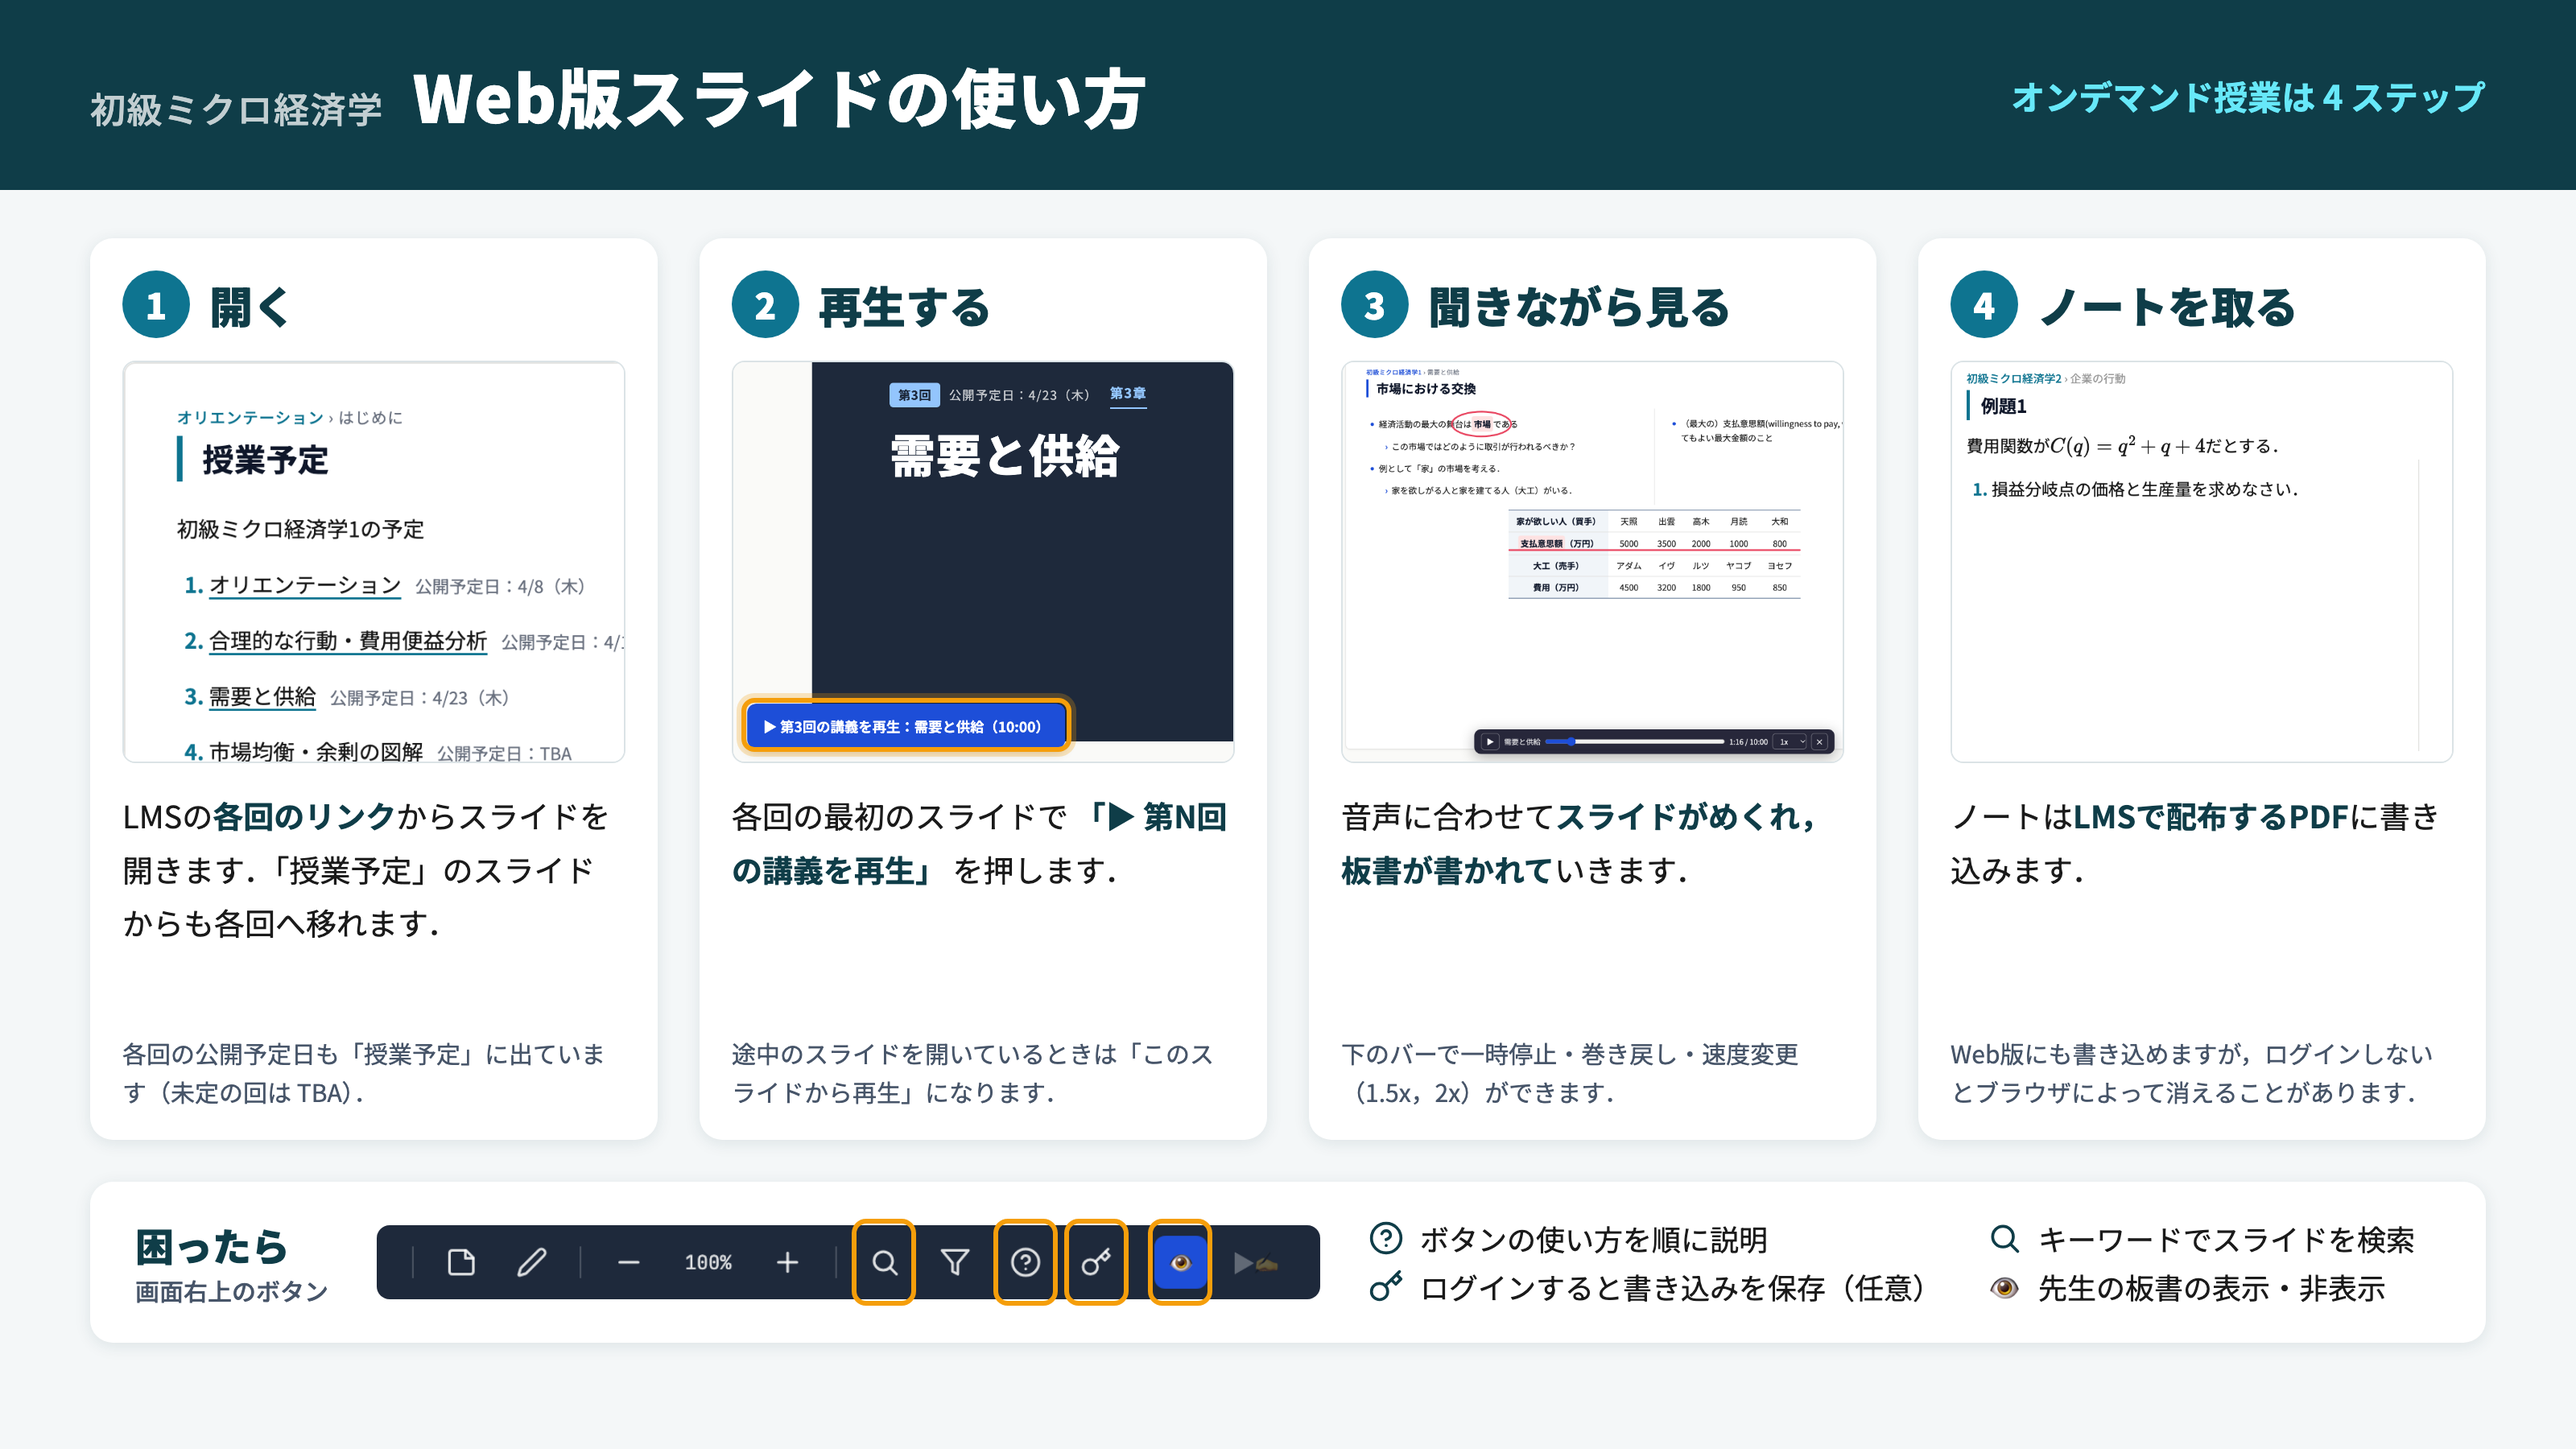
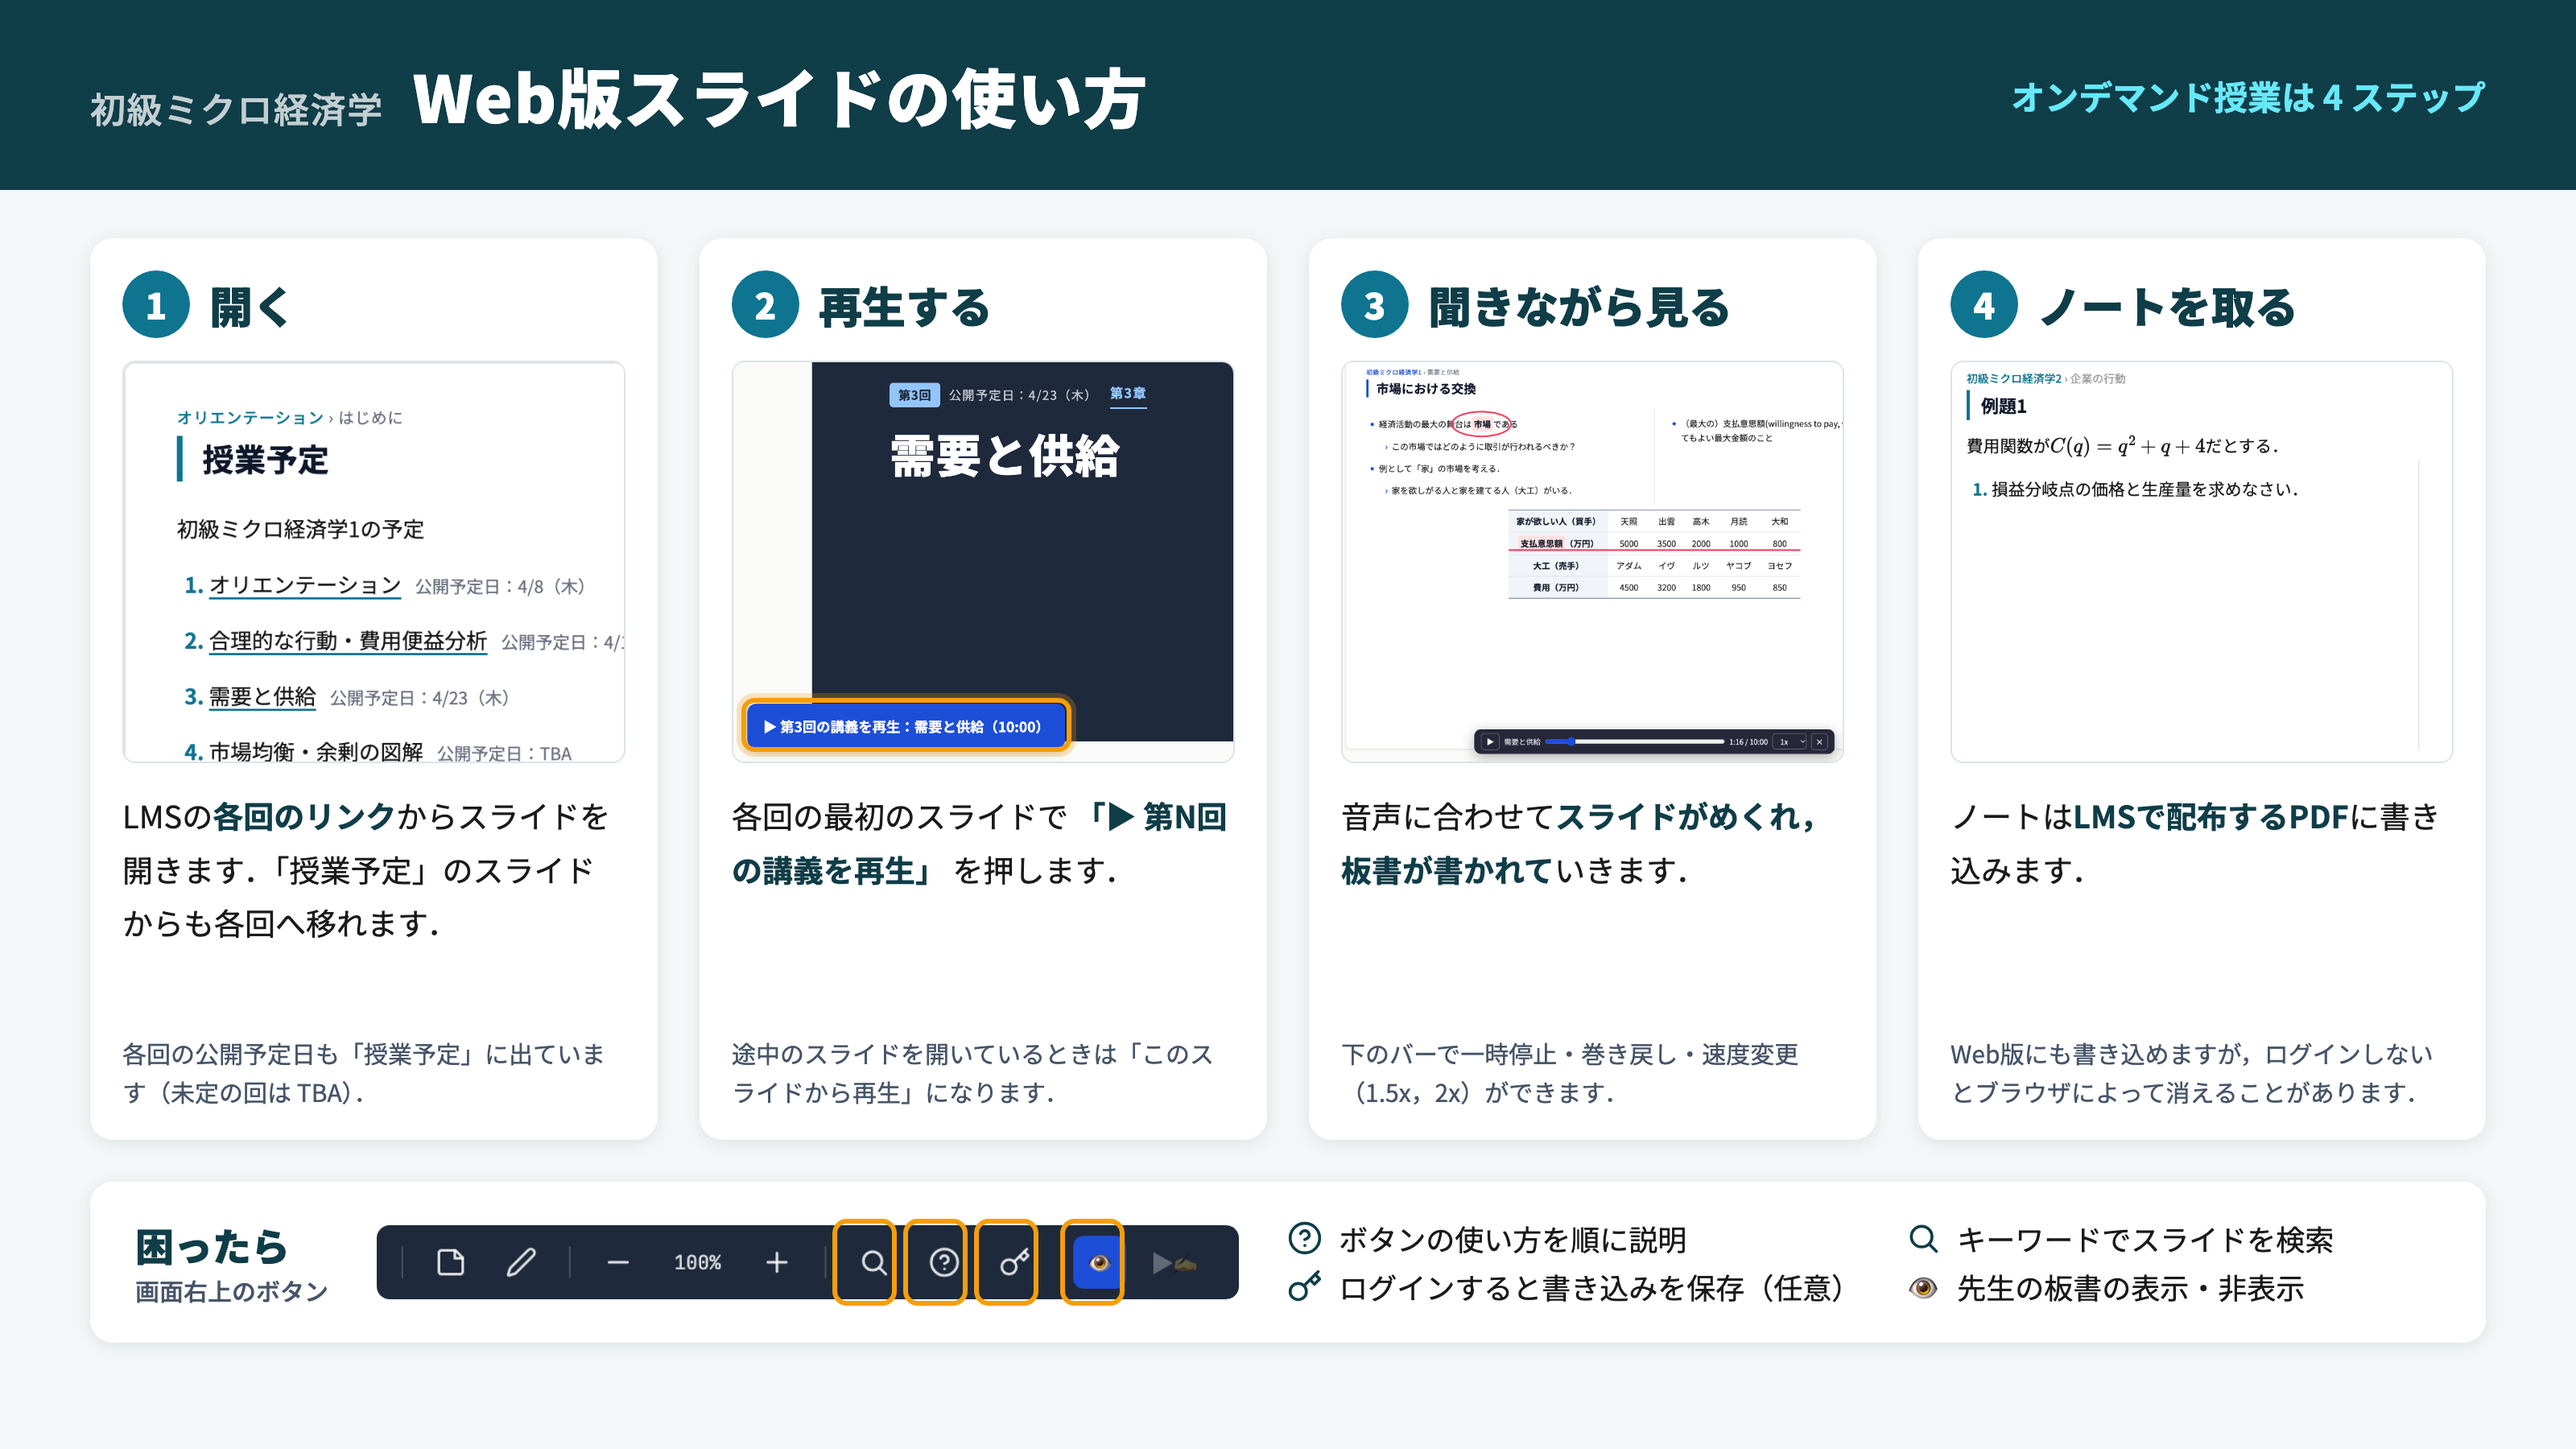
フィルタボタンを廃止し、ブックマーク一覧を検索欄に移す
- ツールバーのフィルタボタン・フィルタの帯・ツアーの「絞り込み」を削除
- 検索欄を空のまま開くと★ブックマークしたスライドの一覧を表示
- LMS 用画像のツールバーを撮り直し

Changed region(s): [[0.3125, 0.84, 0.9375, 0.9022]]

diff --git a/micro_MG.html b/micro_MG.html
@@ -848,7 +848,6 @@ body.print-mode .fab-pen { display: none !important; }
     <button class="nav-btn sp-hide" onclick="zoomStep(1)" title="スライドを拡大 (+)"><svg class="ic"><use href="#i-plus"/></svg></button>
     <span class="nav-sep sp-hide"></span>
     <button class="nav-btn" onclick="toggleSearch()" title="キーワード検索 (/)"><svg class="ic"><use href="#i-search"/></svg></button>
-    <button class="nav-btn" onclick="toggleFilter()" title="フィルタ表示"><svg class="ic"><use href="#i-filter"/></svg></button>
     <button class="nav-btn" onclick="toggleHints()" title="使い方"><svg class="ic"><use href="#i-help"/></svg></button>
   </div>
 </div>
@@ -860,13 +859,7 @@ body.print-mode .fab-pen { display: none !important; }
   <div class="search-results" id="searchResults"></div>
 </div>
 
-<!-- Filter bar -->
-<div class="filter-bar" id="filterBar">
-  <span style="font-weight:500;color:var(--text-dim);">フィルタ:</span>
-  <button class="filter-chip" onclick="setFilter('all',this)">すべて</button>
-  <button class="filter-chip" onclick="setFilter('bookmark',this)"><svg class="ic"><use href="#i-star"/></svg> ブックマーク</button>
-  <span class="filter-count" id="filterCount"></span>
-</div>
+<!-- フィルタの帯（すべて／ブックマーク）は廃止。絞り込みは検索だけが使う（filteredIndices） -->
 
 <!-- Draw toolbar — below topbar/filter, above main -->
 <div class="draw-toolbar" id="drawToolbar">
@@ -2131,9 +2124,6 @@ function toggleBookmark(idx) {
 }
 
 // ═══ FILTER ═══
-function toggleFilter() {
-  document.getElementById('filterBar').classList.toggle('show');
-}
 
 function setFilter(type, el) {
   activeFilter = type;
@@ -2188,8 +2178,7 @@ const TOUR_STEPS = [
   { sel: '#sbTopics button', title: '講義を再生', body: '各回の最初のスライドに「▶ 第N回の講義を再生」が出ます．音声に合わせてスライドがめくれ，板書が書かれていきます．途中のスライドでは「このスライドから再生」になります．' },
   { sel: '#sbShowBtn', title: '先生の板書', body: '👁 で先生の板書の表示・非表示を切り替えます．▶✍ はこのスライドの板書を書き順どおりに再生します（板書のあるスライドだけ）．' },
   { sel: '[onclick="toggleSearch()"]', title: 'キーワード検索', body: 'スライドの本文を検索します（<kbd>/</kbd> キーでも開きます）．検索中は <kbd>←</kbd><kbd>→</kbd> で該当スライドだけを順に見られます．' },
-  { sel: '.slide-content .bookmark-btn', title: 'ブックマーク', body: '★ で大事なスライドに印をつけます．' },
-  { sel: '[onclick="toggleFilter()"]', title: '絞り込み', body: 'ブックマークしたスライドだけを表示します．' },
+  { sel: '.slide-content .bookmark-btn', title: 'ブックマーク', body: '★ で大事なスライドに印をつけます．印をつけたスライドは，検索欄を空のまま開くと一覧で出ます．' },
   { sel: '#drawToggleBtn', title: '書き込み', body: 'スライドに直接書き込めます（iPad では Apple Pencil を使うと自動でオンになります）．ただし<b>ノートは配布PDFに取ってください</b>．Web版の書き込みは補助用です．' },
   { sel: '[onclick="toggleNotes()"]', title: 'メモ欄', body: 'スライドごとにメモを書けます．' },
   { sel: '#ssAuthBtn', title: 'ログイン（任意）', body: '書き込みやメモはこのブラウザに保存されます．ブラウザによっては消えることがあるので，残したい人や端末を替える人はログインしてください．' },
@@ -2282,7 +2271,7 @@ function openSearch() {
   document.getElementById('searchBar').classList.add('show');
   const inp = document.getElementById('searchInput');
   inp.focus(); inp.select();
-  if (inp.value) runSearch();
+  runSearch();   // 空欄ならブックマーク一覧
 }
 function closeSearch() {
   document.getElementById('searchBar').classList.remove('show');
@@ -2298,8 +2287,15 @@ function runSearch() {
   const box = document.getElementById('searchResults');
   const cnt = document.getElementById('searchCount');
   if (!q) {
-    searchHits = []; box.classList.remove('show'); cnt.textContent = '';
+    searchHits = []; cnt.textContent = '';
     if (activeFilter === 'search') { activeFilter = 'all'; filteredIndices = null; updateFilterCount(); showSlide(current); }
+    // 空欄のときはブックマーク（★）したスライドの一覧を出す
+    const bm = SLIDES.map((_, i) => i).filter(i => bookmarks[i]);
+    if (!bm.length) { box.classList.remove('show'); return; }
+    searchSel = 0;
+    box.innerHTML = '<div class="search-empty">★ ブックマークしたスライド</div>' + bm.map((i, k) =>
+      `<div class="search-item${k === 0 ? ' sel' : ''}" data-idx="${i}"><div class="si-head"><span class="si-num">${i + 1}</span>${escSearch(SLIDES[i].title || SLIDES[i].section || '（無題）')}<span class="si-sec">${escSearch(SLIDES[i].section)}</span></div></div>`).join('');
+    box.classList.add('show');
     return;
   }
   if (!SLIDES[0].searchText) SLIDES.forEach(s => {
@@ -2351,7 +2347,7 @@ document.addEventListener('DOMContentLoaded', () => {
   const inp = document.getElementById('searchInput');
   const box = document.getElementById('searchResults');
   inp.addEventListener('input', runSearch);
-  inp.addEventListener('focus', () => { if (inp.value) box.classList.add('show'); });
+  inp.addEventListener('focus', () => { if (inp.value) box.classList.add('show'); else runSearch(); });
   inp.addEventListener('keydown', e => {
     const items = box.querySelectorAll('.search-item');
     if (e.key === 'ArrowDown' || e.key === 'ArrowUp') {

diff --git a/lms/micro_guide_src/micro_guide.html b/lms/micro_guide_src/micro_guide.html
@@ -116,11 +116,11 @@
   <div class="label">困ったら<span>画面右上のボタン</span></div>
   <div class="bar">
     <img src="toolbar.png" alt="ツールバー">
-    <!-- toolbar.png 内の位置（%）：検索 53.8，? 68.8，ログイン 76.3，板書 85.2 -->
-    <div class="pin" style="left:53.8%"></div>
-    <div class="pin" style="left:68.8%"></div>
-    <div class="pin" style="left:76.3%"></div>
-    <div class="pin" style="left:85.2%"></div>
+    <!-- toolbar.png 内の位置（%）：検索 56.6，? 64.8，ログイン 73.0，板書 83.0 -->
+    <div class="pin" style="left:56.6%"></div>
+    <div class="pin" style="left:64.8%"></div>
+    <div class="pin" style="left:73.0%"></div>
+    <div class="pin" style="left:83.0%"></div>
   </div>
   <div class="keys">
     <div><svg class="ico" viewBox="0 0 24 24"><circle cx="12" cy="12" r="10"/><path d="M9.09 9a3 3 0 0 1 5.83 1c0 2-3 3-3 3"/><path d="M12 17h.01"/></svg>ボタンの使い方を順に説明</div>

diff --git a/lms/micro_guide_src/micro_guide_mobile.html b/lms/micro_guide_src/micro_guide_mobile.html
@@ -99,11 +99,11 @@
   <h2>困ったら<span>画面右上のボタン</span></h2>
   <div class="bar">
     <img src="toolbar.png" alt="ツールバー">
-    <!-- toolbar.png 内の位置（%）：検索 53.8，? 68.8，ログイン 76.3，板書 85.2 -->
-    <div class="pin" style="left:53.8%"></div>
-    <div class="pin" style="left:68.8%"></div>
-    <div class="pin" style="left:76.3%"></div>
-    <div class="pin" style="left:85.2%"></div>
+    <!-- toolbar.png 内の位置（%）：検索 56.6，? 64.8，ログイン 73.0，板書 83.0 -->
+    <div class="pin" style="left:56.6%"></div>
+    <div class="pin" style="left:64.8%"></div>
+    <div class="pin" style="left:73.0%"></div>
+    <div class="pin" style="left:83.0%"></div>
   </div>
   <div class="keys">
     <div><svg class="ico" viewBox="0 0 24 24"><circle cx="12" cy="12" r="10"/><path d="M9.09 9a3 3 0 0 1 5.83 1c0 2-3 3-3 3"/><path d="M12 17h.01"/></svg>ボタンの使い方を順に説明</div>
